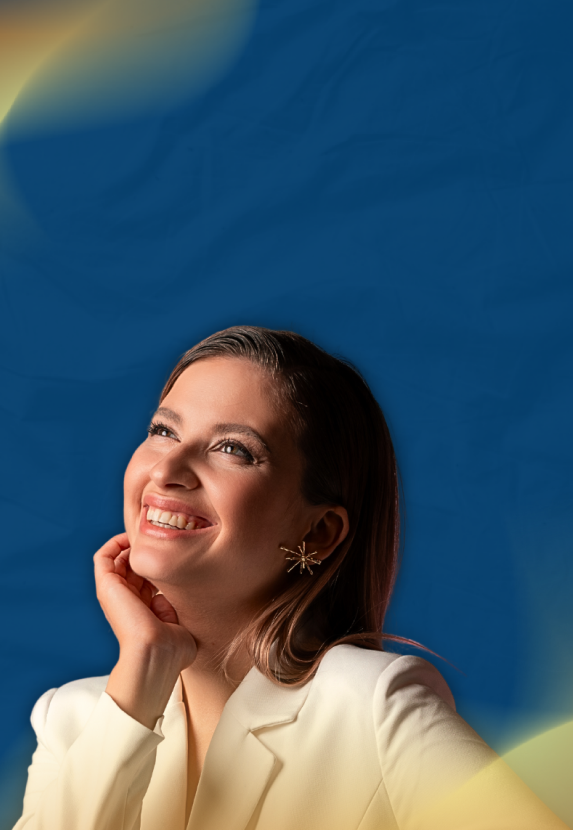
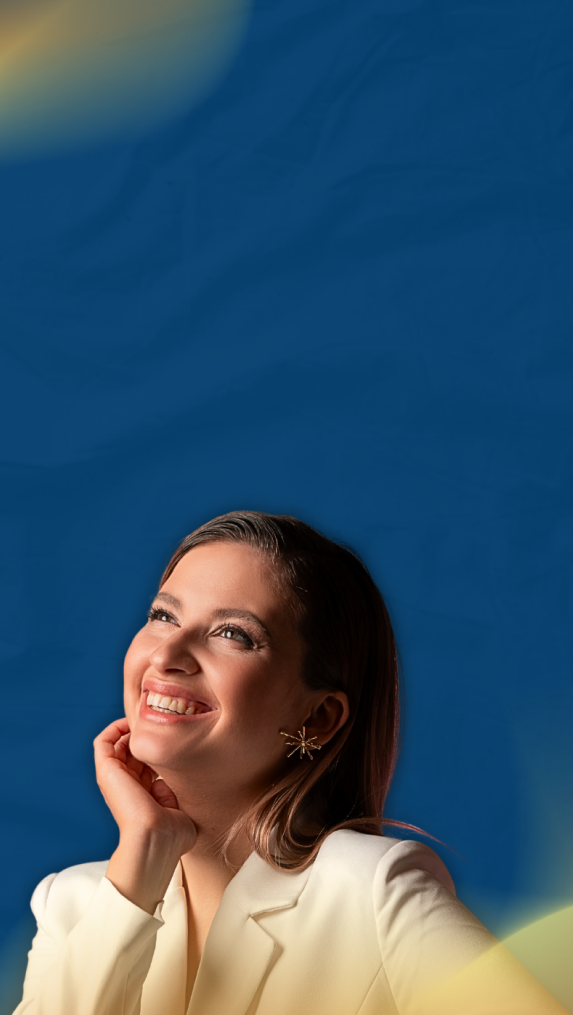
feat/landingpage: add Hero (mobile view)

Changed region(s): [[0.0297, 0.3916, 1.0, 0.994], [0.0, 0.0301, 0.178, 0.1807], [0.0, 0.2108, 0.0297, 0.241]]

diff --git a/src/app/landing/page.tsx b/src/app/landing/page.tsx
@@ -1,47 +1,66 @@
-import React from "react";
+"use client";
+
+import React, { useState, useEffect } from "react";
 import Image from "next/image";
 import heroBG from "../../../public/assets/hero-bg.png";
+import mobileHeroBG from "../../../public/assets/hero-bg-mobile.png";
 import logoHero from "../../../public/assets/logo-hero.png";
 import Button from "@/components/Button";
 
 const LandingPage: React.FC = () => {
+    const [isMobile, setIsMobile] = useState<boolean>(false);
+
+    useEffect(() => {
+        const handleResize = () => {
+            setIsMobile(window.innerWidth <= 768);
+        };
+
+        handleResize();
+
+        window.addEventListener("resize", handleResize);
+
+        return () => {
+            window.removeEventListener("resize", handleResize);
+        };
+    }, []);
+
     return (
         <>
             <section className="relative w-screen left-1/2 right-1/2 -ml-[50vw] -mr-[50vw] h-[778px]">
                 <div className="absolute inset-0">
                     <Image
-                        src={heroBG}
+                        src={isMobile ? mobileHeroBG : heroBG}
                         alt="Imagem de fundo"
                         layout="fill"
                         objectFit="cover"
                         priority
                     />
                 </div>
-                <div className="relative z-10 flex flex-col items-left justify-center h-full px-8 ml-80">
-                    <div className="mb-5 -ml-3">
+                <div className={`relative z-10 flex flex-col items-left justify-center h-full px-8 ${isMobile ? "ml-4 bottom-48" : "ml-80"}`}>
+                    <div className={`mb-${isMobile ? 1 : 5}`}>
                         <Image
                             src={logoHero}
                             alt="Logo Hero"
-                            width={250}
-                            height={100}
+                            width={isMobile ? 150 : 250}
+                            height={isMobile ? 60 : 100}
                         />
                     </div>
-                    <p className="text-white text-left font-semibold text-sm tracking-wide mb-8">
+                    <p className={`text-white text-left font-semibold text-sm tracking-wide mb-${isMobile ? 6 : 8} ${isMobile ? "text-xs" : ""}`}>
                         ENFERMEIRO - BIOMÉDICO - FARMACÊUTICO
                     </p>
-                    <h1 className="text-white text-left font-bold text-5xl">
+                    <h1 className={`text-white text-left font-bold text-5xl ${isMobile ? "text-3xl my-3" : ""}`}>
                         UMA NOVA <br />
                         HISTÓRIA ESTÁ <br />
                         PARA COMEÇAR, <br />
                         NA QUAL VOCÊ SERÁ <br />
                         O <span className="text-[#9C7F4A] italic">PROTAGONISTA!</span>
                     </h1>
-                    <div className="mt-8">
-                    <Button variant="default" size="default" className="text-white font-semibold hover:scale-105 transition-transform duration-300 ease-in-out">
+                    <div className={`mt-${isMobile ? "" : 8}`}>
+                        <Button variant="default" size="default" className="text-white font-semibold hover:scale-105 transition-transform duration-300 ease-in-out">
                             Seu futuro a um clique
                         </Button>
-
                     </div>
+
                 </div>
             </section>
         </>

diff --git a/src/components/ScrollToTop/index.tsx b/src/components/ScrollToTop/index.tsx
@@ -3,6 +3,7 @@
 import React, { useState, useEffect } from 'react';
 import { animateScroll as scroll } from 'react-scroll';
 import Image from 'next/image';
+import arrowUp from '../../../public/assets/arrow-up.png';
 
 const ScrollToTopButton = () => {
     const [showScrollButton, setShowScrollButton] = useState(false);
@@ -34,11 +35,11 @@ const ScrollToTopButton = () => {
                 className="flex items-center justify-center gap-2 bg-[#003F6E] text-white text-sm font-bold tracking-wide py-2 px-4 rounded-full shadow-md hover:bg-verde focus:outline-none focus:ring transition-transform duration-300 ease-in-out transform hover:scale-110"
             >
                 <span className="mr-1">Voltar para o Topo</span>
-                <img
+                <Image
                     width={20}
                     height={20}
+                    src={arrowUp}
                     alt="Seta para cima"
-                    src="/assets/arrow-up.svg"
                 />
             </button>
         </div>

diff --git a/src/app/landing/layout.tsx b/src/app/landing/layout.tsx
@@ -8,7 +8,7 @@ const montserrat = Montserrat({ subsets: ["latin"] });
 
 export const metadata: Metadata = {
   title: "Práxis Pós-graduação",
-  description: "This is a custom landing page",
+  description: "Landing page Práxis Pós-Graduação",
 };
 
 export default function LandingLayout({
@@ -17,12 +17,12 @@ export default function LandingLayout({
   children: React.ReactNode;
 }>) {
   return (
-    <html lang="en">
+    <html lang="pt-br">
       <body className={montserrat.className}>
         <NextUIProvider>
-          <main className="text-balance min-h-screen container">
+          <section className="text-balance min-h-screen container">
             {children}
-          </main>
+          </section>
         </NextUIProvider>
       </body>
     </html>

diff --git a/src/app/layout.tsx b/src/app/layout.tsx
@@ -25,10 +25,10 @@ export default function RootLayout({
     <html lang="en">
       <body className={montserrat.className}>
         <NextUIProvider>
-          <main className="text-balance min-h-screen container">
+          <section className="text-balance min-h-screen container">
             {children}
             <ScrollToTopButton />
-          </main>
+          </section>
         </NextUIProvider>
       </body>
     </html>
